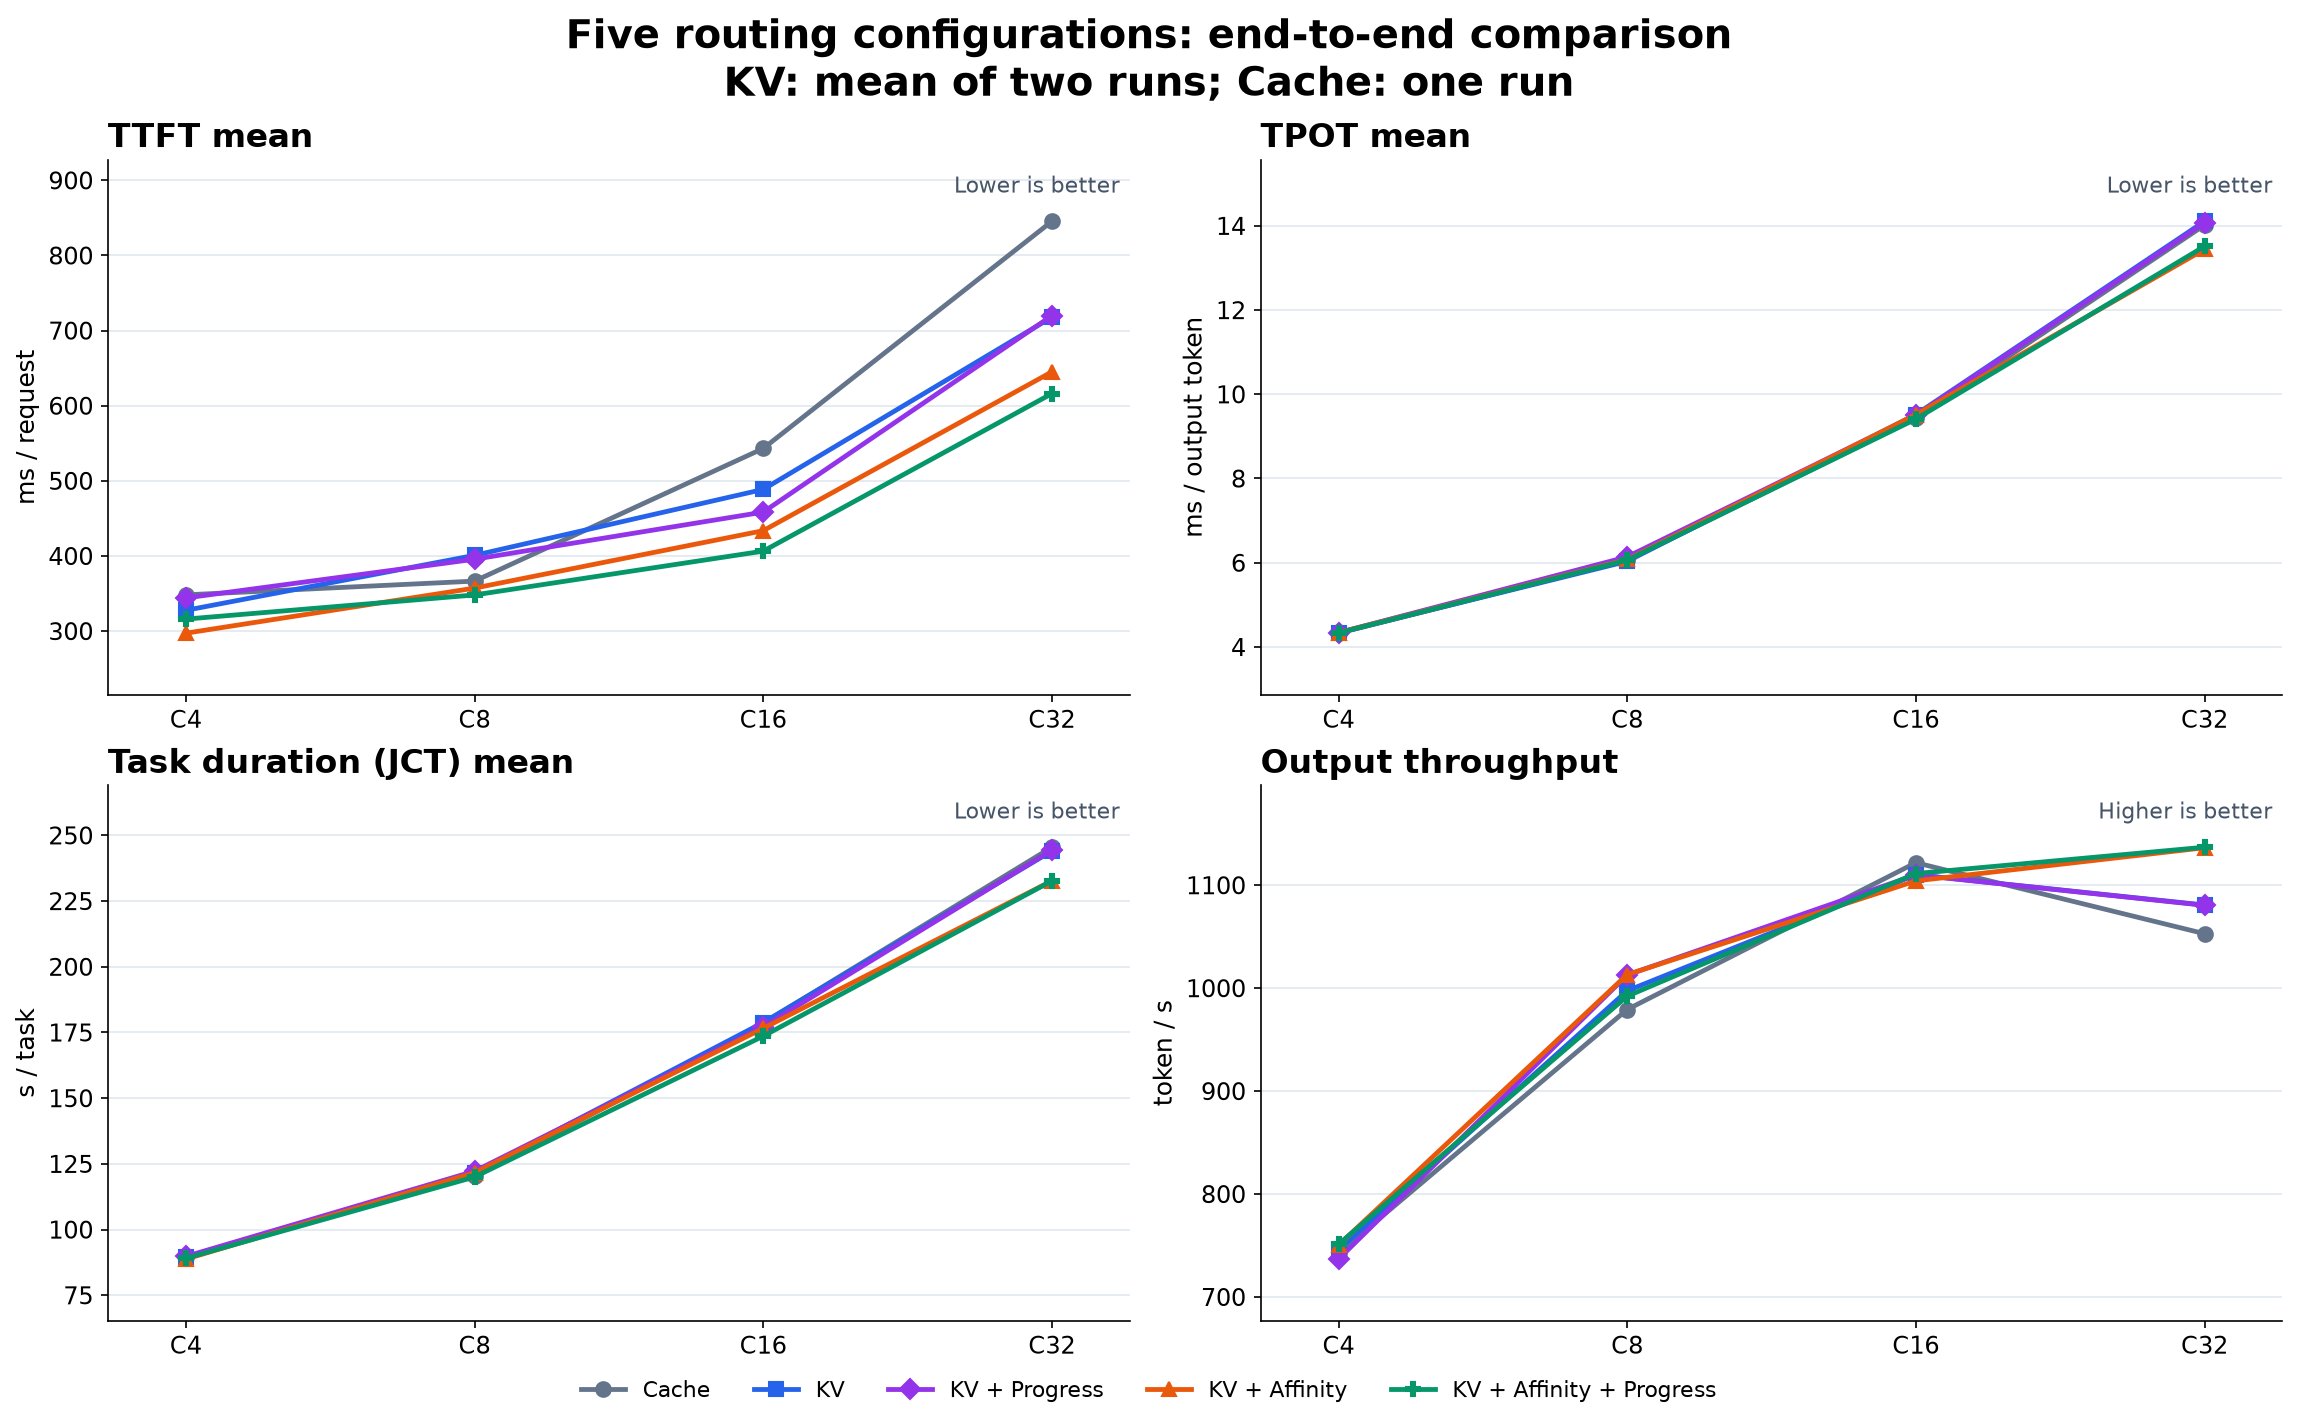
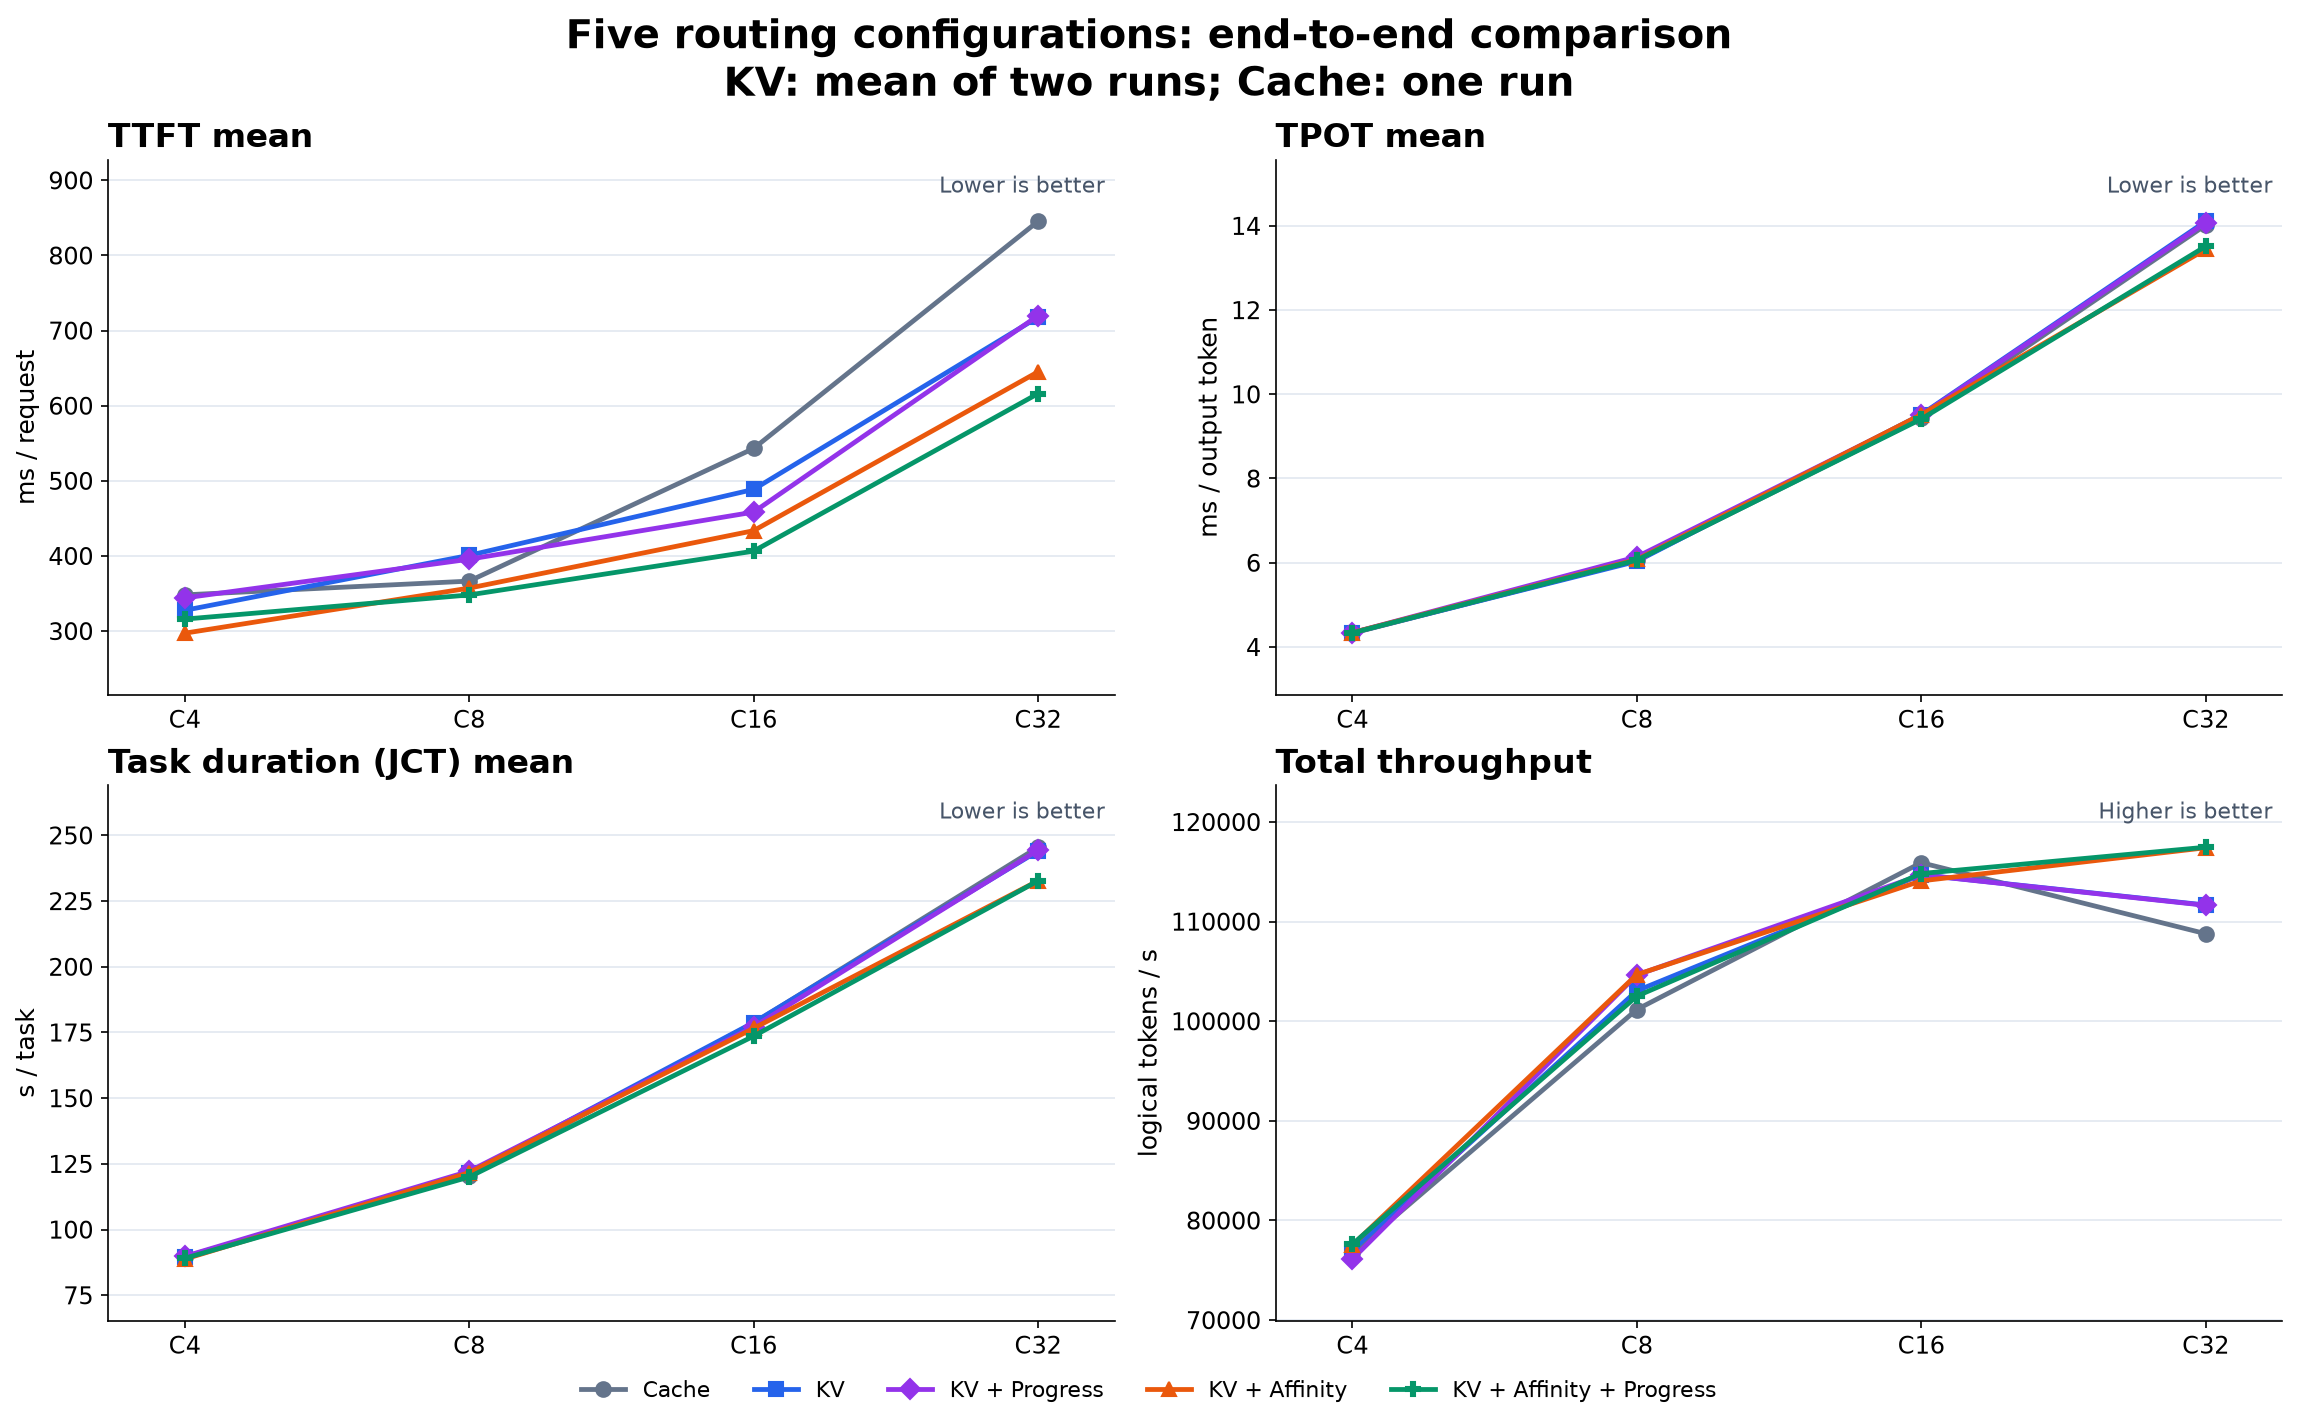
[Docs] Show total throughput in benchmark charts

diff --git a/make_figures.py b/make_figures.py
@@ -42,7 +42,7 @@ panels = [
     ('P queue: change in mean', 'prefill_queue_s_mean_ms', 'absolute', 'ms / request', 'Lower is better'),
     ('P prefill: change in mean', 'prefill_prefill_s_mean_ms', 'percent', '% vs progress off', 'Lower is better'),
     ('Client TTFT: change in mean', 'ttft_ms_mean', 'percent', '% vs progress off', 'Lower is better'),
-    ('Output throughput: change', 'output_tok_s', 'percent', '% vs progress off', 'Higher is better'),
+    ('Total throughput: change', 'total_tok_s', 'percent', '% vs progress off', 'Higher is better'),
 ]
 for ax, (title, key, scale, ylabel, direction) in zip(axes.flat, panels):
     vals = []
@@ -73,7 +73,7 @@ fig.suptitle('Five routing configurations: end-to-end comparison\n'
 charts = [('TTFT mean', 'ttft_ms_mean', 'ms / request', 'Lower is better'),
           ('TPOT mean', 'tpot_ms_mean', 'ms / output token', 'Lower is better'),
           ('Task duration (JCT) mean', 'jct_task_duration_s_mean', 's / task', 'Lower is better'),
-          ('Output throughput', 'output_tok_s', 'token / s', 'Higher is better')]
+          ('Total throughput', 'total_tok_s', 'logical tokens / s', 'Higher is better')]
 for ax, (title, key, ylabel, direction) in zip(axes.flat, charts):
     for arm, label, color, marker in ARMS:
         runs = (1,) if arm == 'cache_aware' else (1, 2)

diff --git a/make_full_vs_cache.py b/make_full_vs_cache.py
@@ -19,7 +19,7 @@ PANELS = (
     ("TTFT mean", "ttft_ms_mean", "ms / request", False),
     ("TPOT mean", "tpot_ms_mean", "ms / output token", False),
     ("Task duration (JCT) mean", "jct_task_duration_s_mean", "s / task", False),
-    ("Output throughput", "output_tok_s", "tokens / s", True),
+    ("Total throughput", "total_tok_s", "logical tokens / s", True),
 )
 
 

diff --git a/README.md b/README.md
@@ -48,6 +48,9 @@ tokens. Different concurrency caps use different synthetic token IDs, with the
 same lengths and prefix-sharing structure. Results are descriptive, not
 confidence intervals or causal counterfactuals.
 
+Total throughput is logical input plus output tokens per replay second. Input
+tokens include locally cached tokens; this is not GPU compute throughput.
+
 The charts can be recreated with Python, matplotlib, and numpy:
 
 ```sh
